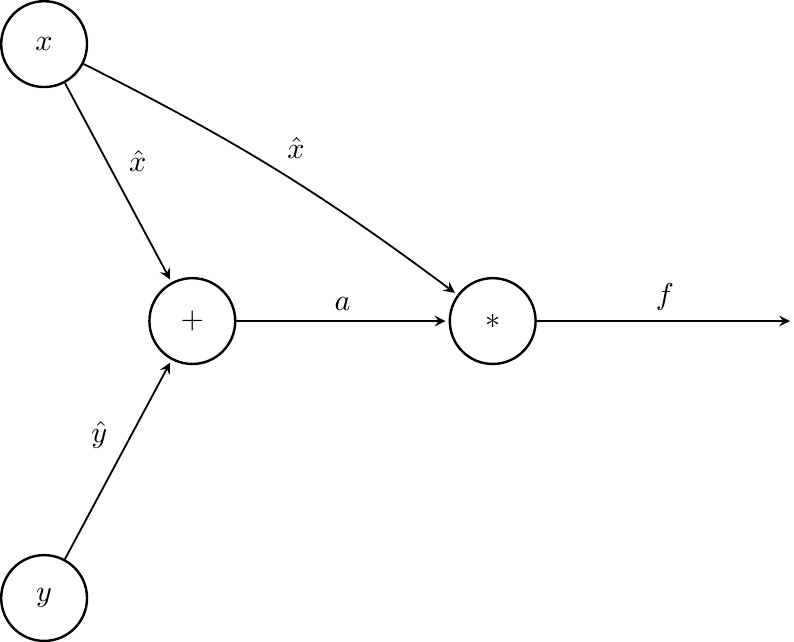
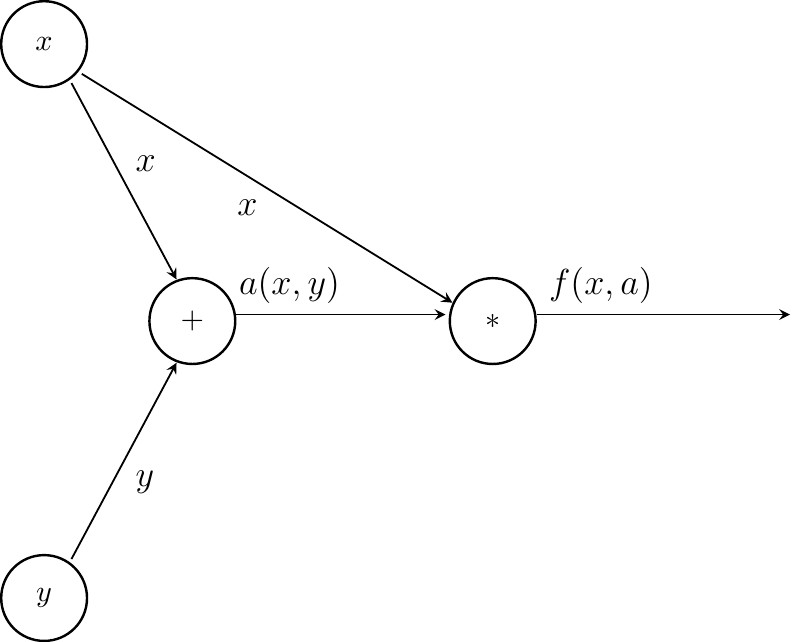
documentation updates

diff --git a/docs/intro_backward.tex b/docs/intro_backward.tex
@@ -18,7 +18,7 @@
             fill = white,
             minimum size = 10mm
         ]
-        %\tikzset{every edge/.append style={font=\large}}
+        \tikzset{every edge/.append style={font=\footnotesize}}
 
 		\node[state] (add) {$+$};
         \node[state] (x) [above left=2.5cm and 1cm of add] {$x$};
@@ -26,19 +26,19 @@
         \node[state] (mul) [right of=add] {$*$};
         \coordinate[right of=mul] (f);
         
-        \path[->] (x) edge node {$\hat{x}$} (add);        
-        \path[->] (x) edge [bend left=5] node {$\hat{x}$} (mul);        
-        \path[->] (y) edge node {$\hat{y}$} (add);        
-        \path[->] (add) edge node {$a$} (mul);
-        \path[->] (mul) edge node {$f$} (f);
+        \path[->,transform canvas={xshift=0.5ex}] (x) edge node[above right] {$x$} (add);        
+        \path[->,transform canvas={yshift=-0.5ex}] (x) edge node[below left] {$x$} (mul);        
+        \path[->,transform canvas={xshift=0.5ex}] (y) edge node[below right] {$y$} (add);        
+        \path[->,transform canvas={yshift=0.5ex}] (add) edge node {$a(x,y)$} (mul);
+        \path[->,transform canvas={yshift=0.5ex}] (mul) edge node {$f(x,a)$} (f);
       
         % partial edges
         \iftrue
-        \path[->] (add) edge [red, bend left=10] node {$\frac{\mathrm{d}a}{\mathrm{d}\hat{x}} = 1$} (x);
-        \path[->] (mul) edge [red, bend left=5] node {$\frac{\mathrm{d}f}{\mathrm{d}\hat{x}} = a$} (x);
-        \path[->] (add) edge [red, bend left=10] node {$\frac{\mathrm{d}a}{\mathrm{d}\hat{y}} = 1$} (y);
-        \path[->] (mul) edge [red, bend left=10] node {$\frac{\mathrm{d}f}{\mathrm{d}a} = \hat{x}$} (add);
-        \path[->] (f) edge [red, bend left=10] node {$\frac{\mathrm{d}f}{\mathrm{d}f} = 1$} (mul);
+        \path[->,transform canvas={xshift=-0.5ex}] (add) edge [red] node[below,  rotate=-62] {$\frac{\mathrm{d}a(x,y)}{\mathrm{d}x} = 1$} (x);
+        \path[->,transform canvas={yshift=0.5ex}] (mul) edge [red] node[above, rotate=-30] {$\frac{\mathrm{d}f(x,a)}{\mathrm{d}x} = a(x,y)$} (x);
+        \path[->,transform canvas={xshift=-0.5ex}] (add) edge [red] node[above left, rotate=62, pos=0.2] {$\frac{\mathrm{d}a(x,y)}{\mathrm{d}y} = 1$} (y);
+        \path[->,transform canvas={yshift=-0.5ex}] (mul) edge [red] node {$\frac{\mathrm{d}f(x,a)}{\mathrm{d}a(x,y)} = x$} (add);
+        \path[->,transform canvas={yshift=-0.5ex}] (f) edge [red] node {$\frac{\mathrm{d}f(x,a)}{\mathrm{d}f(x,a)} = 1$} (mul);
         \fi
         
 
